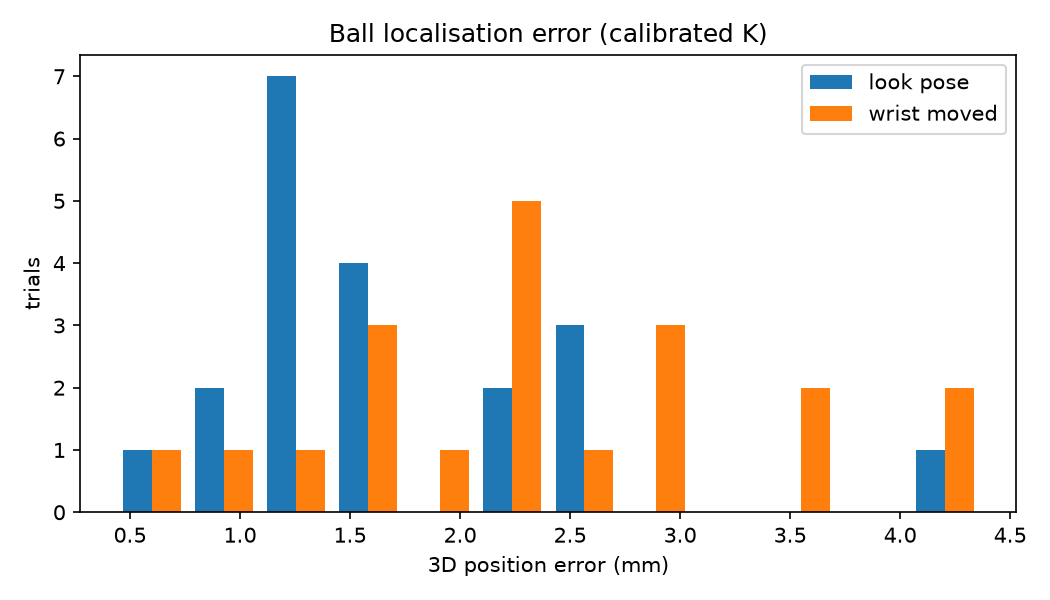
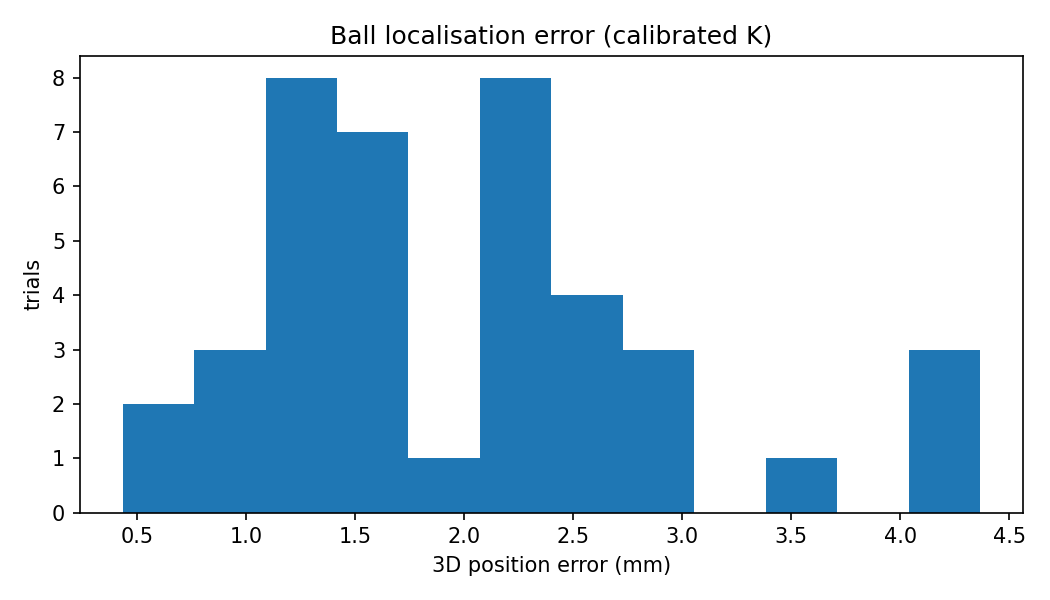
Add camera calibration and update vision evidence

diff --git a/Camera_calibration.py b/Camera_calibration.py
@@ -1,0 +1,187 @@
+import os
+import numpy as np
+import matplotlib
+matplotlib.use("Agg")
+import matplotlib.pyplot as plt
+import mujoco
+ 
+from scene_setup import reset_scene, LOOK_POSE
+from vision import (WristCamera, camera_pose_world, intrinsics_from_model,
+                    detect_ball_camera, target_mask, TARGET_BODY)
+ 
+out = "evidence/vision"
+test_seeds = range(0, 20)         # ball positions used for testing
+calib_seeds = range(100, 140)     # different positions, only used for calibration
+wrist_jitter = 0.15               # rad: how much the wrist is moved in some trials
+noise_levels = [0.0, 0.001, 0.002, 0.005, 0.01]   # depth noise (m)
+ 
+ 
+def set_up(model, data, seed, move_wrist):
+    """Place the ball (Chloe's reset), optionally move the wrist, return the true ball centre."""
+    reset_scene(model, data, seed)
+    if move_wrist:
+        rng = np.random.default_rng(1000 + seed)
+        data.qpos[:6] = LOOK_POSE
+        data.qpos[3:6] += rng.uniform(-wrist_jitter, wrist_jitter, 3)
+        mujoco.mj_forward(model, data)
+    return data.body(TARGET_BODY).xpos.copy()
+ 
+ 
+def rmse(errors):
+    return float(np.sqrt(np.mean(np.square(errors))))
+ 
+ 
+# ---------------------------------------------------------------- 1. calibration
+def calibrate(model, data, cam):
+    """Pinhole model: u = fx * X/Z + cx,  v = fy * Y/Z + cy.
+    (X, Y, Z) = true ball centre in the camera frame, (u, v) = detected ball pixel.
+    Each equation is a straight line, so fx, cx and fy, cy come from a line fit."""
+    xz, yz, us, vs = [], [], [], []
+    for seed in calib_seeds:
+        for move_wrist in (False, True):
+            true_ball = set_up(model, data, seed, move_wrist)
+            rgb, _ = cam.capture(data)
+            v, u = np.nonzero(target_mask(rgb))
+            if len(u) < 30:                      # ball not visible enough
+                continue
+            X, Y, Z = (camera_pose_world(model, data).inv() * true_ball).flatten()
+            xz.append(X / Z); yz.append(Y / Z); us.append(u.mean()); vs.append(v.mean())
+ 
+    fx, cx = np.polyfit(xz, us, 1)               # straight-line fit: slope and intercept
+    fy, cy = np.polyfit(yz, vs, 1)
+    K = np.array([[fx, 0, cx], [0, fy, cy], [0, 0, 1.0]])
+ 
+    u_pred = fx * np.array(xz) + cx
+    v_pred = fy * np.array(yz) + cy
+    reproj = np.hypot(u_pred - us, v_pred - vs)  # pixel error of the fitted model
+    return K, reproj, (us, vs, u_pred, v_pred)
+ 
+ 
+def calibrate_depth(model, data, cam, K):
+    """Check the depth readings against known distances: fit measured = scale * true.
+    For each view, look at the pixel where the ball's centre appears. Along that ray the
+    camera sees the front of the ball, so the true depth there is Z * (1 - r / distance)."""
+    radius = model.geom("target_ball").size[0]
+    true_depths, measured_depths = [], []
+    for seed in calib_seeds:
+        for move_wrist in (False, True):
+            true_ball = set_up(model, data, seed, move_wrist)
+            _, depth = cam.capture(data)
+            X, Y, Z = (camera_pose_world(model, data).inv() * true_ball).flatten()
+            u = int(round(K[0, 0] * X / Z + K[0, 2]))       # pixel where the centre appears
+            v = int(round(K[1, 1] * Y / Z + K[1, 2]))
+            if not (0 <= u < depth.shape[1] and 0 <= v < depth.shape[0]):
+                continue                                     # ball outside the image
+            distance = np.sqrt(X**2 + Y**2 + Z**2)
+            true_depths.append(Z * (1 - radius / distance))  # depth of the ball's front surface
+            measured_depths.append(depth[v, u])
+ 
+    true_depths = np.array(true_depths)
+    measured_depths = np.array(measured_depths)
+    scale = np.sum(measured_depths * true_depths) / np.sum(true_depths**2)   # best-fit scale
+    depth_err = measured_depths - true_depths
+    return scale, depth_err
+ 
+ 
+# ---------------------------------------------------------------- 2. accuracy
+def localisation_errors(model, data, cam, K, noise=0.0):
+    """Error (m) for every test position, with and without moving the wrist."""
+    rng = np.random.default_rng(42)
+    errors = []
+    for move_wrist in (False, True):
+        for seed in test_seeds:
+            true_ball = set_up(model, data, seed, move_wrist)
+            rgb, depth = cam.capture(data)
+            depth = depth + rng.normal(0, noise, depth.shape) if noise > 0 else depth
+            P_C, _ = detect_ball_camera(rgb, depth, K)
+            if P_C is None:
+                continue
+            estimate = (camera_pose_world(model, data) * P_C).flatten()
+            errors.append(np.linalg.norm(estimate - true_ball))
+    return np.array(errors)
+ 
+ 
+def main():
+    os.makedirs(out, exist_ok=True)
+    model = mujoco.MjModel.from_xml_path("scene.xml")
+    data = mujoco.MjData(model)
+    cam = WristCamera(model)
+ 
+    # 1. Calibration
+    K_ideal = intrinsics_from_model(model)
+    K_cal, reproj, (us, vs, u_pred, v_pred) = calibrate(model, data, cam)
+    np.save(f"{out}/K_calibrated.npy", K_cal)
+    depth_scale, depth_err = calibrate_depth(model, data, cam, K_cal)
+ 
+    # 2. Accuracy
+    err_ideal = localisation_errors(model, data, cam, K_ideal)
+    err_cal = localisation_errors(model, data, cam, K_cal)
+ 
+    # 3. Depth noise
+    noise_rmse = [rmse(localisation_errors(model, data, cam, K_cal, s)) for s in noise_levels]
+ 
+    total = 2 * len(test_seeds)
+    summary = "\n".join([
+        "VISION EVIDENCE",
+        "",
+        "1. Camera calibration",
+        f"   ideal K (fovy 75):  fx {K_ideal[0,0]:.2f}  fy {K_ideal[1,1]:.2f}  cx {K_ideal[0,2]:.2f}  cy {K_ideal[1,2]:.2f}",
+        f"   calibrated K:       fx {K_cal[0,0]:.2f}  fy {K_cal[1,1]:.2f}  cx {K_cal[0,2]:.2f}  cy {K_cal[1,2]:.2f}",
+        f"   reprojection error: RMSE {rmse(reproj):.2f} px, max {reproj.max():.2f} px ({len(us)} points)",
+        "",
+        "   Depth calibration (measured = scale x true)",
+        f"   scale {depth_scale:.4f}, mean error {1000*np.mean(depth_err):+.2f} mm",
+        f"   depth error: RMSE {1000*rmse(depth_err):.2f} mm, max {1000*np.abs(depth_err).max():.2f} mm ({len(depth_err)} points)",
+        "",
+        "2. 3D localisation error",
+        f"   ideal K:      detected {len(err_ideal)}/{total}, RMSE {1000*rmse(err_ideal):.2f} mm, max {1000*err_ideal.max():.2f} mm",
+        f"   calibrated K: detected {len(err_cal)}/{total}, RMSE {1000*rmse(err_cal):.2f} mm, max {1000*err_cal.max():.2f} mm",
+        "",
+        "3. Depth noise (calibrated K)",
+        *[f"   noise {1000*s:4.1f} mm -> RMSE {1000*e:.2f} mm" for s, e in zip(noise_levels, noise_rmse)],
+    ])
+    with open(f"{out}/summary.txt", "w") as f:
+        f.write(summary)
+    print(summary)
+ 
+    # Plots
+    plt.figure(figsize=(7, 4))
+    plt.hist(1000 * err_cal, bins=12)
+    plt.xlabel("3D position error (mm)"); plt.ylabel("trials")
+    plt.title("Ball localisation error (calibrated K)")
+    plt.tight_layout(); plt.savefig(f"{out}/error_hist.png", dpi=150); plt.close()
+ 
+    plt.figure(figsize=(7, 4))
+    plt.plot(1000 * np.array(noise_levels), 1000 * np.array(noise_rmse), "o-")
+    plt.xlabel("depth noise (mm)"); plt.ylabel("RMSE (mm)"); plt.grid(alpha=0.3)
+    plt.title("Localisation error vs depth noise")
+    plt.tight_layout(); plt.savefig(f"{out}/error_vs_noise.png", dpi=150); plt.close()
+ 
+    plt.figure(figsize=(7, 5))
+    plt.scatter(us, vs, s=18, label="detected")
+    plt.scatter(u_pred, v_pred, s=18, marker="x", label="predicted by calibrated K")
+    plt.xlim(0, 640); plt.ylim(480, 0); plt.gca().set_aspect("equal")
+    plt.xlabel("u (px)"); plt.ylabel("v (px)"); plt.legend(fontsize=8)
+    plt.title(f"Calibration: reprojection RMSE {rmse(reproj):.2f} px")
+    plt.tight_layout(); plt.savefig(f"{out}/calibration_reprojection.png", dpi=150); plt.close()
+ 
+    # Example frame: RGB, mask, depth
+    set_up(model, data, 0, False)
+    rgb, depth = cam.capture(data)
+    _, pixel = detect_ball_camera(rgb, depth, K_cal)
+    fig, ax = plt.subplots(1, 3, figsize=(15, 4.2))
+    ax[0].imshow(rgb); ax[0].set_title("Wrist RGB")
+    ax[1].imshow(target_mask(rgb), cmap="gray"); ax[1].set_title("Ball mask")
+    ax[2].imshow(depth, vmax=1); ax[2].set_title("Wrist depth (m)")
+    for a in ax:
+        a.scatter(*pixel, c="yellow", marker="x", s=120)
+        a.axis("off")
+    plt.tight_layout(); plt.savefig(f"{out}/example_detection.png", dpi=150); plt.close()
+ 
+    cam.renderer.close()
+    print(f"\nSaved to {out}/")
+ 
+ 
+if __name__ == "__main__":
+    main()
+ 
